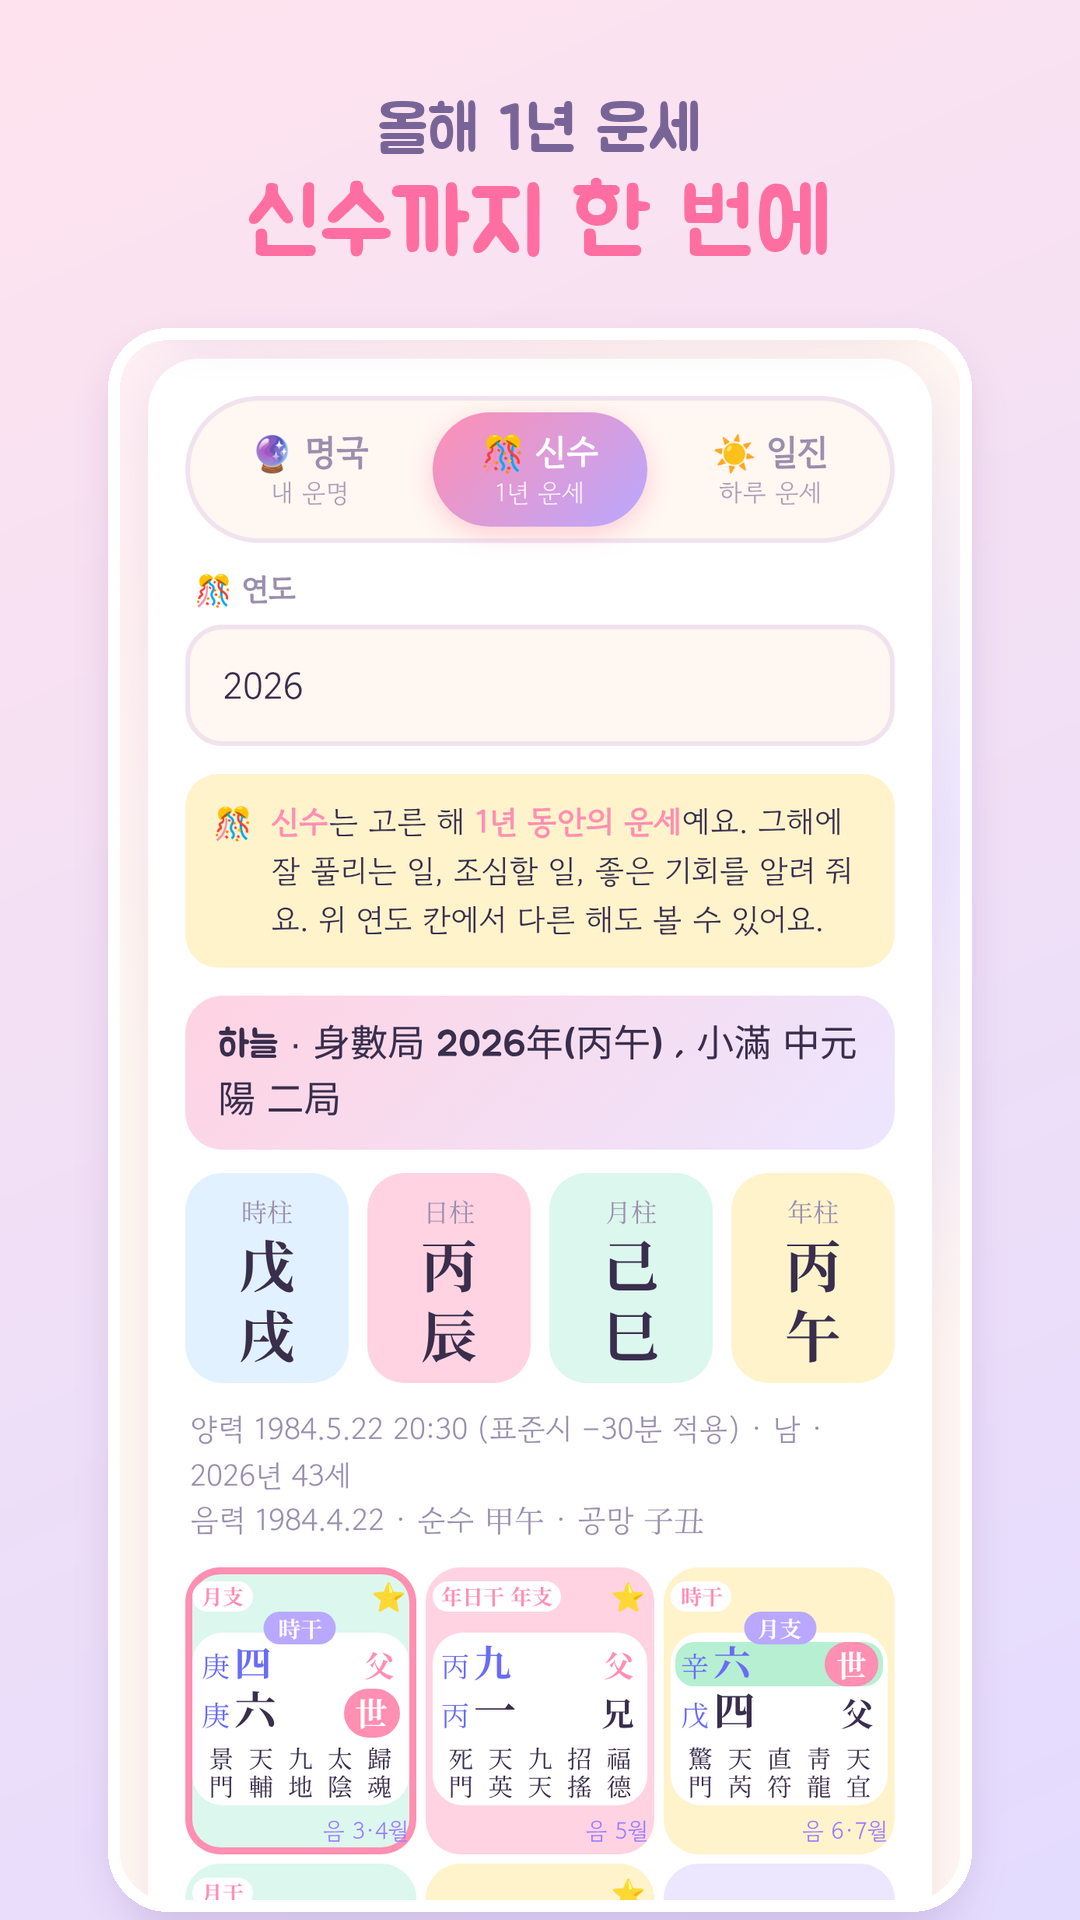
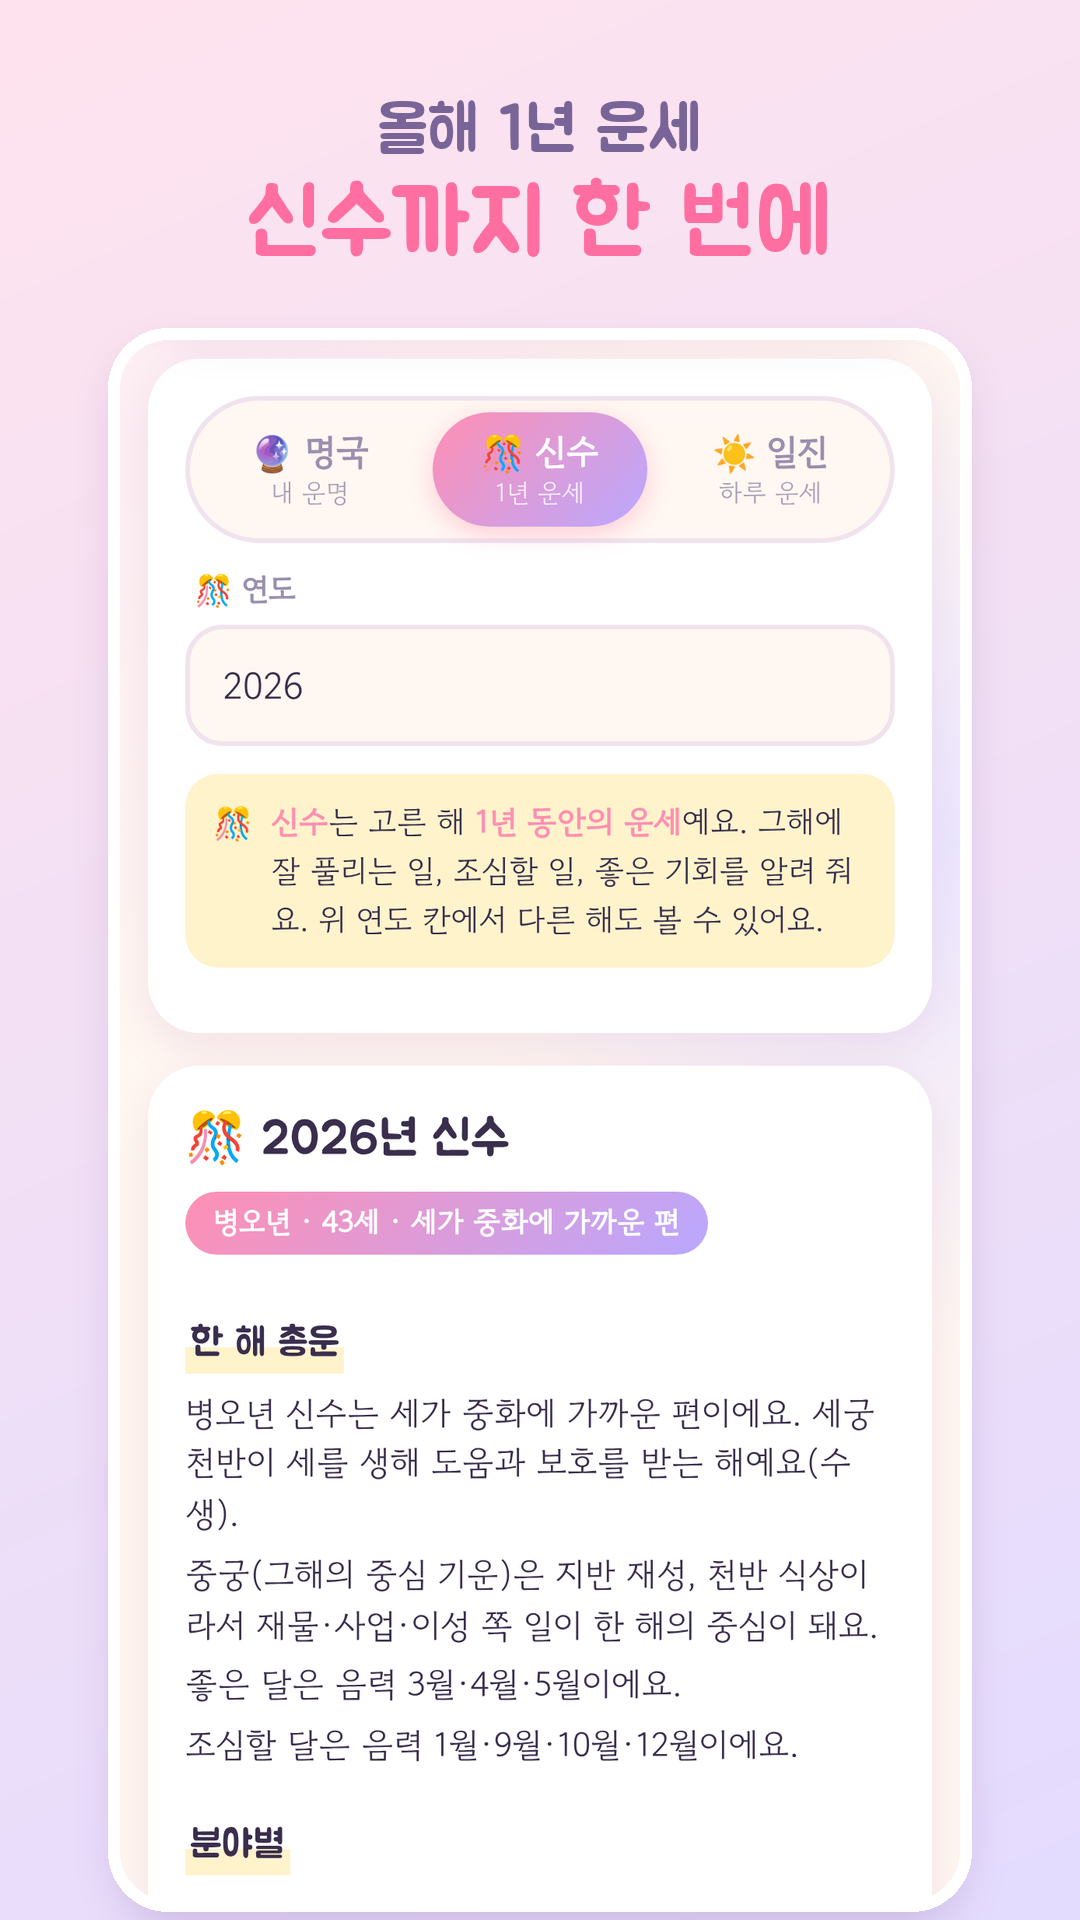
결과 화면을 쉽게: 성격 유형·풀이 먼저, 9칸 지도, 누르면 바로 뜨는 풀이 창
- 명국·신수·일진 탭 바로 아래에 풀이가 나오게 순서 변경 (명국은 성격 유형이 맨 위)
- 한자 명국표 대신 그림·한글로 된 9칸 운명 지도, 한자 표는 '전문가용'으로 접기
- 칸을 누르면 화면 아래에서 풀이 창이 바로 올라옴
- 풀이 글의 한자를 한글로 바꿔 보여 주기
- 스토어 스크린샷 새 화면으로 갱신

Claude-Session: https://claude.ai/code/session_0119NABojqjSjjtLjcbGgRiW

Changed region(s): [[0.1528, 0.5, 0.8556, 1.0]]

diff --git a/www/index.html b/www/index.html
@@ -57,6 +57,34 @@ button.sec{background:var(--lav2);color:var(--ink);box-shadow:none}
 .tdMeter{height:10px;border-radius:999px;background:var(--line);overflow:hidden;margin:6px 0 2px}.tdMeter i{display:block;height:100%;border-radius:999px;background:linear-gradient(90deg,var(--yel),var(--pink),var(--lav))}
 .tdBtns{display:flex;gap:8px;margin-top:10px;flex-wrap:wrap}.tdBtns button{flex:1;font-size:15px;padding:11px}
 .modeWrap{flex:2 1 230px!important}@media(max-width:420px){.modeWrap{flex:1 1 100%!important}}
+#mapCard .mapH{margin:0 0 2px;font-size:20px}.mapInfo{margin:0 0 4px;font-size:13px;color:var(--mute)}
+.mapTip{display:inline-block;margin:2px 0 10px;padding:6px 12px;border-radius:999px;background:var(--yel2);font-size:13.5px;font-weight:700}
+.sboard{display:grid;grid-template-columns:repeat(3,1fr);gap:7px}
+.sc{position:relative;border-radius:18px;padding:9px 6px 8px;text-align:center;cursor:pointer;border:2px solid transparent;background:var(--bg);transition:transform .12s;min-height:118px;display:flex;flex-direction:column;align-items:center;gap:2px}
+.sc:active{transform:scale(.96)}
+.sc.p1{background:#e3f1ff}.sc.p9{background:#ffe6ee}.sc.p3,.sc.p4{background:#ddf6ee}.sc.p6,.sc.p7{background:#efe8ff}.sc.p2,.sc.p8,.sc.p5{background:#fff4d6}
+@media(prefers-color-scheme:dark){.sc.p1{background:#203247}.sc.p9{background:#43263a}.sc.p3,.sc.p4{background:#1f3a35}.sc.p6,.sc.p7{background:#30294a}.sc.p2,.sc.p8,.sc.p5{background:#3d3524}}
+.sc.now{border-color:var(--pink);box-shadow:0 3px 12px rgba(255,143,179,.35)}
+.sc .dir{font-size:11.5px;color:var(--mute);font-weight:700}
+.sc .em{font-size:30px;line-height:1.15}
+.sc .kw{font-family:"Jua",sans-serif;font-size:15.5px;line-height:1.2}
+.sc .dm{font-size:11.5px}
+.sc .ag{font-size:11px;color:var(--mute);margin-top:auto}
+.sc .st{position:absolute;top:5px;right:7px;font-size:13px}
+.sc.now{padding-top:15px}.sc .bd{position:absolute;top:-9px;left:50%;transform:translateX(-50%);white-space:nowrap;font-size:11px;font-weight:700;color:#fff;background:linear-gradient(135deg,var(--pink),var(--lav));padding:2px 8px;border-radius:999px}
+.sleg{font-size:12px;color:var(--mute);margin:10px 2px 8px;line-height:1.6}
+.expBtn{width:100%;margin:4px 0 6px;font-size:14px}
+#expert{margin-top:8px}
+.sheet{position:fixed;inset:0;z-index:50;pointer-events:none}
+.sheet .sheetBg{position:absolute;inset:0;background:rgba(40,25,55,.35);opacity:0;transition:opacity .2s}
+.sheet .sheetPanel{position:absolute;left:0;right:0;bottom:0;max-width:560px;margin:0 auto;max-height:82vh;overflow:auto;background:var(--card);border-radius:26px 26px 0 0;padding:10px 20px 28px;transform:translateY(105%);transition:transform .25s ease;box-shadow:0 -6px 30px rgba(80,50,110,.25)}
+.sheet.open{pointer-events:auto}.sheet.open .sheetBg{opacity:1}.sheet.open .sheetPanel{transform:none}
+.sheetBar{width:44px;height:5px;border-radius:9px;background:var(--line);margin:0 auto 10px}
+.sheetX{position:absolute;top:10px;right:12px;width:36px;height:36px;padding:0;border-radius:50%;background:var(--bg);color:var(--ink);box-shadow:none;font-size:16px}
+.shHead{display:flex;gap:12px;align-items:center;margin:4px 0 10px}.shHead .em{font-size:42px}.shHead b{font-family:"Jua",sans-serif;font-size:21px;display:block}.shHead small{color:var(--mute);font-size:13px}
+.sheet .detail p{font-size:15px;line-height:1.7}
+.sheet:not(.pro) .detail h3,.sheet:not(.pro) .detail .tagline{display:none}
+.rd .badge+h4{display:table}
 .chk{display:flex;gap:8px;align-items:center;font-size:13px;color:var(--mute);margin-left:4px}.chk input{width:18px;height:18px;accent-color:var(--pink)}
 .err{color:var(--red);font-size:14px;margin-top:8px;display:none;background:var(--pink2);padding:8px 12px;border-radius:12px}
 .head{font-family:"Jua",sans-serif;font-size:16px;font-weight:400;padding:9px 14px;margin-bottom:10px;background:linear-gradient(135deg,var(--pink2),var(--lav2));border-radius:16px}
@@ -166,32 +194,42 @@ button.sec{background:var(--lav2);color:var(--ink);box-shadow:none}
 
 <div id="out" style="display:none">
   <div class="card today" id="todayOut"></div>
-  <div class="card">
+  <div class="card" id="ctl">
     <div class="row" style="align-items:flex-end"><div class="modeWrap"><div class="seg" id="mode"><button data-v="won" class="on">🔮 명국<small>내 운명</small></button><button data-v="sin">🎊 신수<small>1년 운세</small></button><button data-v="il">☀ 일진<small>하루 운세</small></button></div></div>
     <div id="ilWrap" style="display:none"><label for="ild">📅 날짜</label><input id="ild" type="date"></div>
     <div id="yrWrap" style="display:none"><label for="yr">🎊 연도</label><input id="yr" type="number" min="1900" max="2100"></div></div>
     <p class="modeExp" id="modeExp"></p>
-    <div class="head" id="head"></div>
-    <div class="saju" id="saju"></div>
-    <p class="meta" id="meta"></p>
-    <div class="board" id="board"></div>
-    <p class="legend" id="legend">⭐ = 사주 지지(동처)가 든 궁 · 초록 줄 = 천반 동처 · 하얀 표 = 사주 글자 위치 · 칸 색은 궁의 오행(파랑 수, 분홍 화, 민트 목, 보라 금, 노랑 토) · 칸마다 아래 숫자는 대운 나이(위: 천반 46~90세, 아래: 지반 1~45세), 올해 나이 구간은 분홍으로 표시해요. 칸을 누르면 풀이가 나와요.</p>
+  </div>
+  <div class="card rd" id="typecard"></div>
+  <div class="card rd" id="reading"></div>
+  <div class="card" id="mapCard">
+    <h2 class="mapH">🗺 9칸 운명 지도</h2>
+    <p class="mapInfo" id="mapInfo"></p>
+    <p class="mapTip">👆 칸을 누르면 그 칸의 풀이가 바로 떠요</p>
+    <div class="sboard" id="sboard"></div>
+    <p class="sleg" id="sleg"></p>
+    <button type="button" class="sec expBtn" id="expBtn">📜 한자 명국표 보기 (전문가용)</button>
+    <div id="expert" style="display:none">
+      <div class="head" id="head"></div>
+      <div class="saju" id="saju"></div>
+      <p class="meta" id="meta"></p>
+      <div class="board" id="board"></div>
+      <p class="legend" id="legend">⭐ = 사주 지지(동처)가 든 궁 · 초록 줄 = 천반 동처 · 하얀 표 = 사주 글자 위치 · 칸 색은 궁의 오행(파랑 수, 분홍 화, 민트 목, 보라 금, 노랑 토) · 칸마다 아래 숫자는 대운 나이(위: 천반 46~90세, 아래: 지반 1~45세), 올해 나이 구간은 분홍으로 표시해요. 칸을 누르면 풀이가 나와요.</p>
+    </div>
     <div class="row" style="margin:10px 0 0"><button class="sec" id="save">💾 이 명국 저장</button><button class="sec" id="edit">✏ 다시 입력</button></div>
   </div>
+  <div class="card rd" id="fourcard"></div>
   <div class="card" id="alarmCard">
     <h3 style="margin:0 0 6px;font-size:17px">🔔 매일 아침 일진 알림</h3>
     <label class="chk" style="font-size:15px;color:var(--ink)"><input type="checkbox" id="alOn"> 매일 알림 받기</label>
     <div class="row" style="margin-top:8px"><div><label for="alTime">⏰ 알림 시각</label><input id="alTime" type="time" value="09:00"></div><div style="display:flex;align-items:flex-end"><button class="sec" id="alSave" style="width:100%">이 명국으로 설정</button></div></div>
     <p class="note" id="alMsg"></p>
   </div>
-  <div class="card rd" id="reading"></div>
-  <div class="card rd" id="typecard"></div>
-  <div class="card rd" id="fourcard"></div>
-  <div class="card detail" id="detail"></div>
   <div class="card">
     <p class="note">계산 방식: 홍국수는 년월일시 천간수(甲1~癸10)·지지수(子1~亥12) 합을 9로 나눈 나머지를 중궁에 두고 지반은 순포, 천반은 역포해요. 연국은 시가기문 전반(轉盤)·부두 삼원 기준, 중궁은 곤궁에 붙여요. 운곡 홍기문둔갑 프로그램 화면 두 개와 대조해 일치를 확인했어요. 생기복덕 팔괘의 기준궁(양둔은 지반 世궁, 음둔은 천반 世궁)은 그 두 화면에서 추정한 규칙이라 더 확인이 필요해요.</p>
   </div>
 </div>
+<div class="sheet" id="sheet" aria-hidden="true"><div class="sheetBg" id="sheetBg"></div><div class="sheetPanel" role="dialog" aria-modal="true" aria-label="칸 풀이"><div class="sheetBar"></div><button type="button" class="sheetX" id="sheetX" aria-label="닫기">✕</button><div class="shHead" id="shHead"></div><div class="detail" id="detail"></div></div></div>
 </main>
 <script>/* lunar-javascript 1.6.12 (MIT, 6tail) */
 ;(function(root,factory){
@@ -9709,6 +9747,81 @@ alDraw();
   $('go').addEventListener('click',()=>{if(base&&$('err').style.display==='none'){try{localStorage.setItem(LAST,JSON.stringify(profileOf(base.input)));}catch(e){}drawTop();}});
   const _show=show;show=function(){const r=_show.apply(this,arguments);drawOut();return r;};
   drawTop();
+})();
+// ── 쉬운 9칸 지도 + 누르면 바로 뜨는 풀이 창 + 한자 줄이기 ──
+(function(){
+  const HZ={'甲':'갑','乙':'을','丙':'병','丁':'정','戊':'무','己':'기','庚':'경','辛':'신','壬':'임','癸':'계',
+    '子':'자','丑':'축','寅':'인','卯':'묘','辰':'진','巳':'사','午':'오','未':'미','申':'신','酉':'유','戌':'술','亥':'해',
+    '木':'목','火':'화','土':'토','金':'금','水':'수','財':'재','官':'관','鬼':'귀','孫':'손','父':'부','兄':'형','世':'세',
+    '休':'휴','生':'생','傷':'상','杜':'두','景':'경','死':'사','驚':'경','開':'개','門':'문','日':'일','月':'월','年':'년','時':'시','柱':'주',
+    '局':'국','空':'공','亡':'망','天':'천','地':'지','陰':'음','陽':'양','命':'명','元':'원','數':'수','身':'신','中':'중','宮':'궁',
+    '乾':'건','坤':'곤','艮':'간','巽':'손','坎':'감','離':'리','震':'진','兌':'태','氣':'기','宜':'의','絶':'절','體':'체','遊':'유',
+    '魂':'혼','禍':'화','害':'해','福':'복','德':'덕','歸':'귀','合':'합','冲':'충','沖':'충','刑':'형','破':'파','支':'지','干':'간',
+    '辰':'진','和':'화','弱':'약','多':'다','強':'강','强':'강','旺':'왕','衰':'쇠','用':'용','神':'신','喜':'희','忌':'기','吉':'길','凶':'흉','大':'대','運':'운','歲':'세','正':'정','偏':'편','印':'인','比':'비','劫':'겁','食':'식','殺':'살','星':'성','太':'태','小':'소','人':'인','少':'소','老':'노','虛':'허','實':'실','一':'1','二':'2','三':'3','四':'4','五':'5','六':'6','七':'7','八':'8','九':'9','十':'10'};
+  const HZRE=new RegExp('['+Object.keys(HZ).join('')+']','g');
+  function hangulize(root){
+    if(!root)return;
+    const w=document.createTreeWalker(root,NodeFilter.SHOW_TEXT);let n;
+    while((n=w.nextNode())){const v=n.nodeValue;let t=v.replace(HZRE,c=>HZ[c]);if(t!==v){t=t.replace(/([가-힣]+)\(\1\)/g,'$1');n.nodeValue=t;}}
+  }
+  const KW={世:['🙋','나의 자리'],財:['💰','재물·사업'],官:['🏢','직장·명예'],鬼:['⚡','시련·압박'],孫:['🌱','자녀·재능'],父:['📜','문서·도움'],兄:['🤝','친구·경쟁']};
+  const DOOR={休門:'🍀 좋은 문',生門:'🍀 좋은 문',開門:'🍀 좋은 문',景門:'✨ 드러나는 문',傷門:'⚠ 조심',杜門:'⚠ 조심',驚門:'⚠ 조심',死門:'⚠ 조심'};
+  const dirOf=p=>{const m=/\((.+)\)/.exec(PK[p]);return m?m[1]+'쪽':'가운데';};
+  const kw=r=>p=>KW[r.lqH[p]]||['🔮',r.lqH[p]];
+  function curPalOf(r){const age=ageNow(r);return [1,2,3,4,5,6,7,8,9].find(p=>{const [a,b]=age<=45?r.ageE[p]:r.ageH[p];return age>=a&&age<=b;});}
+  function drawSimple(){
+    const r=cur;if(!r)return;const K=kw(r);const age=ageNow(r);const cp=curPalOf(r);
+    let h='';
+    for(const p of [4,9,2,3,5,7,8,1,6]){
+      const [em,word]=K(p);
+      const tE=r.tagE[p]||[],tH=r.tagH[p]||[];
+      const star=tE.some(t=>t.endsWith('支'))||p===r.sePal||(p===5&&tH.some(t=>t.endsWith('支')));
+      let badge='',ag='',now=false;
+      if(dInfo){if(dInfo.x.d.p===p){badge='오늘의 칸';now=true;}ag='';}
+      else if(yInfo){const ms=Object.keys(MPAL).filter(m=>MPAL[m]===p);if(yInfo.out.hangPal===p){badge='올해 큰일';now=true;}ag=ms.length?'음력 '+ms.join('·')+'월':'';}
+      else{const [e0,e1]=r.ageE[p],[h0,h1]=r.ageH[p];ag=e0+'~'+e1+'세 · '+h0+'~'+h1+'세';if(p===cp){badge='지금 내 운';now=true;}}
+      h+='<div class="sc p'+p+(now?' now':'')+'" data-p="'+p+'" role="button" tabindex="0" aria-label="'+dirOf(p)+' 칸, '+word+'">'+
+        (badge?'<span class="bd">'+badge+'</span>':'')+(star?'<span class="st" title="내 사주의 중심 기운이 있는 칸">⭐</span>':'')+
+        '<span class="dir">'+dirOf(p)+'</span><span class="em">'+em+'</span><span class="kw">'+word+'</span>'+
+        (p!==5&&DOOR[r.door[p]]?'<span class="dm">'+DOOR[r.door[p]]+'</span>':'')+(ag?'<span class="ag">'+ag+'</span>':'')+'</div>';
+    }
+    $('sboard').innerHTML=h;
+    const I=r.input,p2=v=>String(v).padStart(2,'0');
+    $('mapInfo').textContent=(I.name?I.name+' · ':'')+I.y+'.'+I.m+'.'+I.d+' '+p2(I.h)+':'+p2(I.mi)+' · '+(I.sex==='M'?'남':'여')+' · '+(yInfo?yearSel+'년 ':'올해 ')+age+'세';
+    $('sleg').textContent=dInfo?'⭐ 내 사주의 중심 기운이 있는 칸 · 분홍 테두리는 그날 운이 드러나는 칸이에요.':
+      yInfo?'⭐ 내 사주의 중심 기운이 있는 칸 · 분홍 테두리는 올해 큰일이 생기는 칸, 칸 아래는 그 칸으로 보는 음력 달이에요.':
+      '⭐ 내 사주의 중심 기운이 있는 칸 · 분홍 테두리는 지금 나이의 운이 흐르는 칸이에요. 칸 아래 나이는 그 칸의 운이 오는 시기예요.';
+  }
+  const sheet=$('sheet');
+  function openCell(p){
+    const r=cur;if(!r)return;
+    showDetail(p,yInfo||dInfo?null:curPalOf(r));
+    const [em,word]=kw(r)(p);
+    let sub=dirOf(p)+' 칸';
+    if(!yInfo&&!dInfo){const [e0,e1]=r.ageE[p],[h0,h1]=r.ageH[p];sub+=' · '+e0+'~'+e1+'세, '+h0+'~'+h1+'세의 운';}
+    $('shHead').innerHTML='<span class="em">'+em+'</span><div><b>'+word+'의 칸</b><small>'+sub+'</small></div>';
+    hangulize($('detail'));
+    if(!sheet.classList.contains('pro')){const w=document.createTreeWalker($('detail'),NodeFilter.SHOW_TEXT);let n;while((n=w.nextNode())){n.nodeValue=n.nodeValue.replace(/\(지반\)/g,'(속)').replace(/\(천반\)/g,'(겉)').replace(/천반 /g,'겉으로 드러난 운 ').replace(/지반 /g,'바탕이 되는 운 ').replace(/(드러난 운|되는 운) ([세재관귀손부형])$/,(m,x,y)=>x+' · '+({세:'나',재:'재물',관:'직장',귀:'압박',손:'자녀',부:'문서',형:'친구'})[y]).replace(/([년월일시])[간지]/g,(m,x)=>'태어난 '+({년:'해',월:'달',일:'날',시:'시'})[x]);}}
+    document.querySelectorAll('.sc').forEach(c=>c.classList.toggle('sel',+c.dataset.p===p));
+    sheet.classList.add('open');sheet.setAttribute('aria-hidden','false');
+    sheet.querySelector('.sheetPanel').scrollTop=0;
+  }
+  function closeSheet(){sheet.classList.remove('open');sheet.setAttribute('aria-hidden','true');}
+  $('sboard').addEventListener('click',e=>{const c=e.target.closest('.sc');if(c)openCell(+c.dataset.p);});
+  $('sboard').addEventListener('keydown',e=>{if(e.key==='Enter'||e.key===' '){const c=e.target.closest('.sc');if(c){e.preventDefault();openCell(+c.dataset.p);}}});
+  $('board').addEventListener('click',e=>{const c=e.target.closest('.cell');if(c)openCell(+c.dataset.p);});
+  $('sheetBg').addEventListener('click',closeSheet);$('sheetX').addEventListener('click',closeSheet);
+  document.addEventListener('keydown',e=>{if(e.key==='Escape')closeSheet();});
+  $('expBtn').addEventListener('click',()=>{const ex=$('expert'),on=ex.style.display==='none';ex.style.display=on?'block':'none';
+    sheet.classList.toggle('pro',on);$('expBtn').textContent=on?'🙈 한자 명국표 접기':'📜 한자 명국표 보기 (전문가용)';});
+  const _render=render;render=function(){const out=_render.apply(this,arguments);
+    try{drawSimple();['todayOut','reading','typecard','fourcard'].forEach(id=>hangulize($(id)));}catch(e){console.error(e);}return out;};
+  // 탭을 누르면 풀이가 바로 보이게
+  $('mode').addEventListener('click',e=>{if(e.target.closest('button'))setTimeout(()=>{$('ctl').scrollIntoView({behavior:'smooth',block:'start'});},50);});
+  const _show2=show;show=function(){const r=_show2.apply(this,arguments);try{hangulize($('todayOut'));hangulize($('todayTop'));}catch(e){}return r;};
+  $('go').addEventListener('click',()=>setTimeout(()=>hangulize($('todayTop')),0));
+  hangulize($('todayTop'));
+  window.__hangulize=hangulize;
 })();
 drawSaved();
 LEG0=$('legend').textContent;
